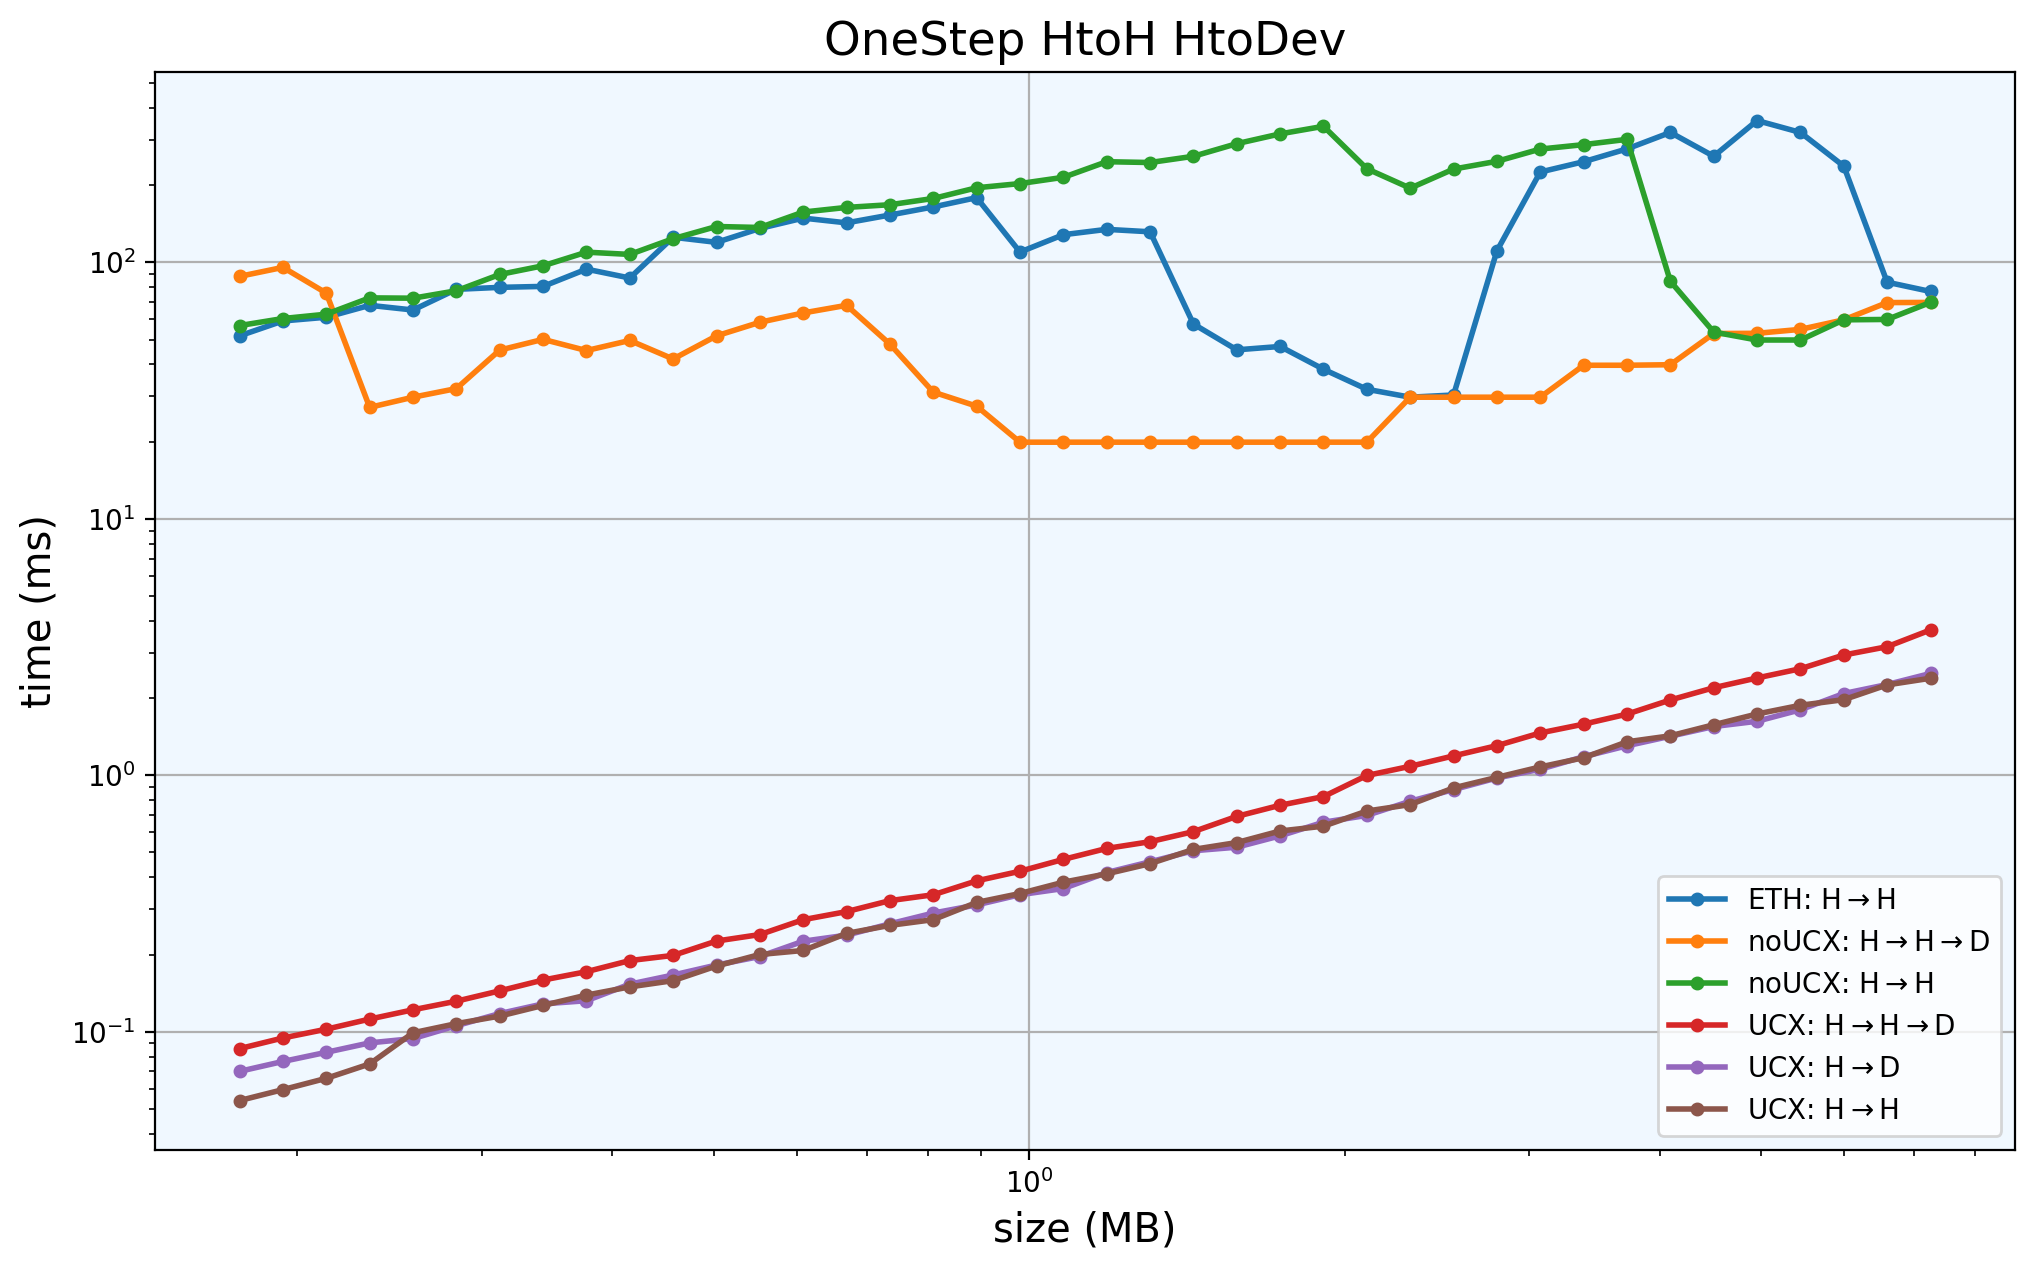
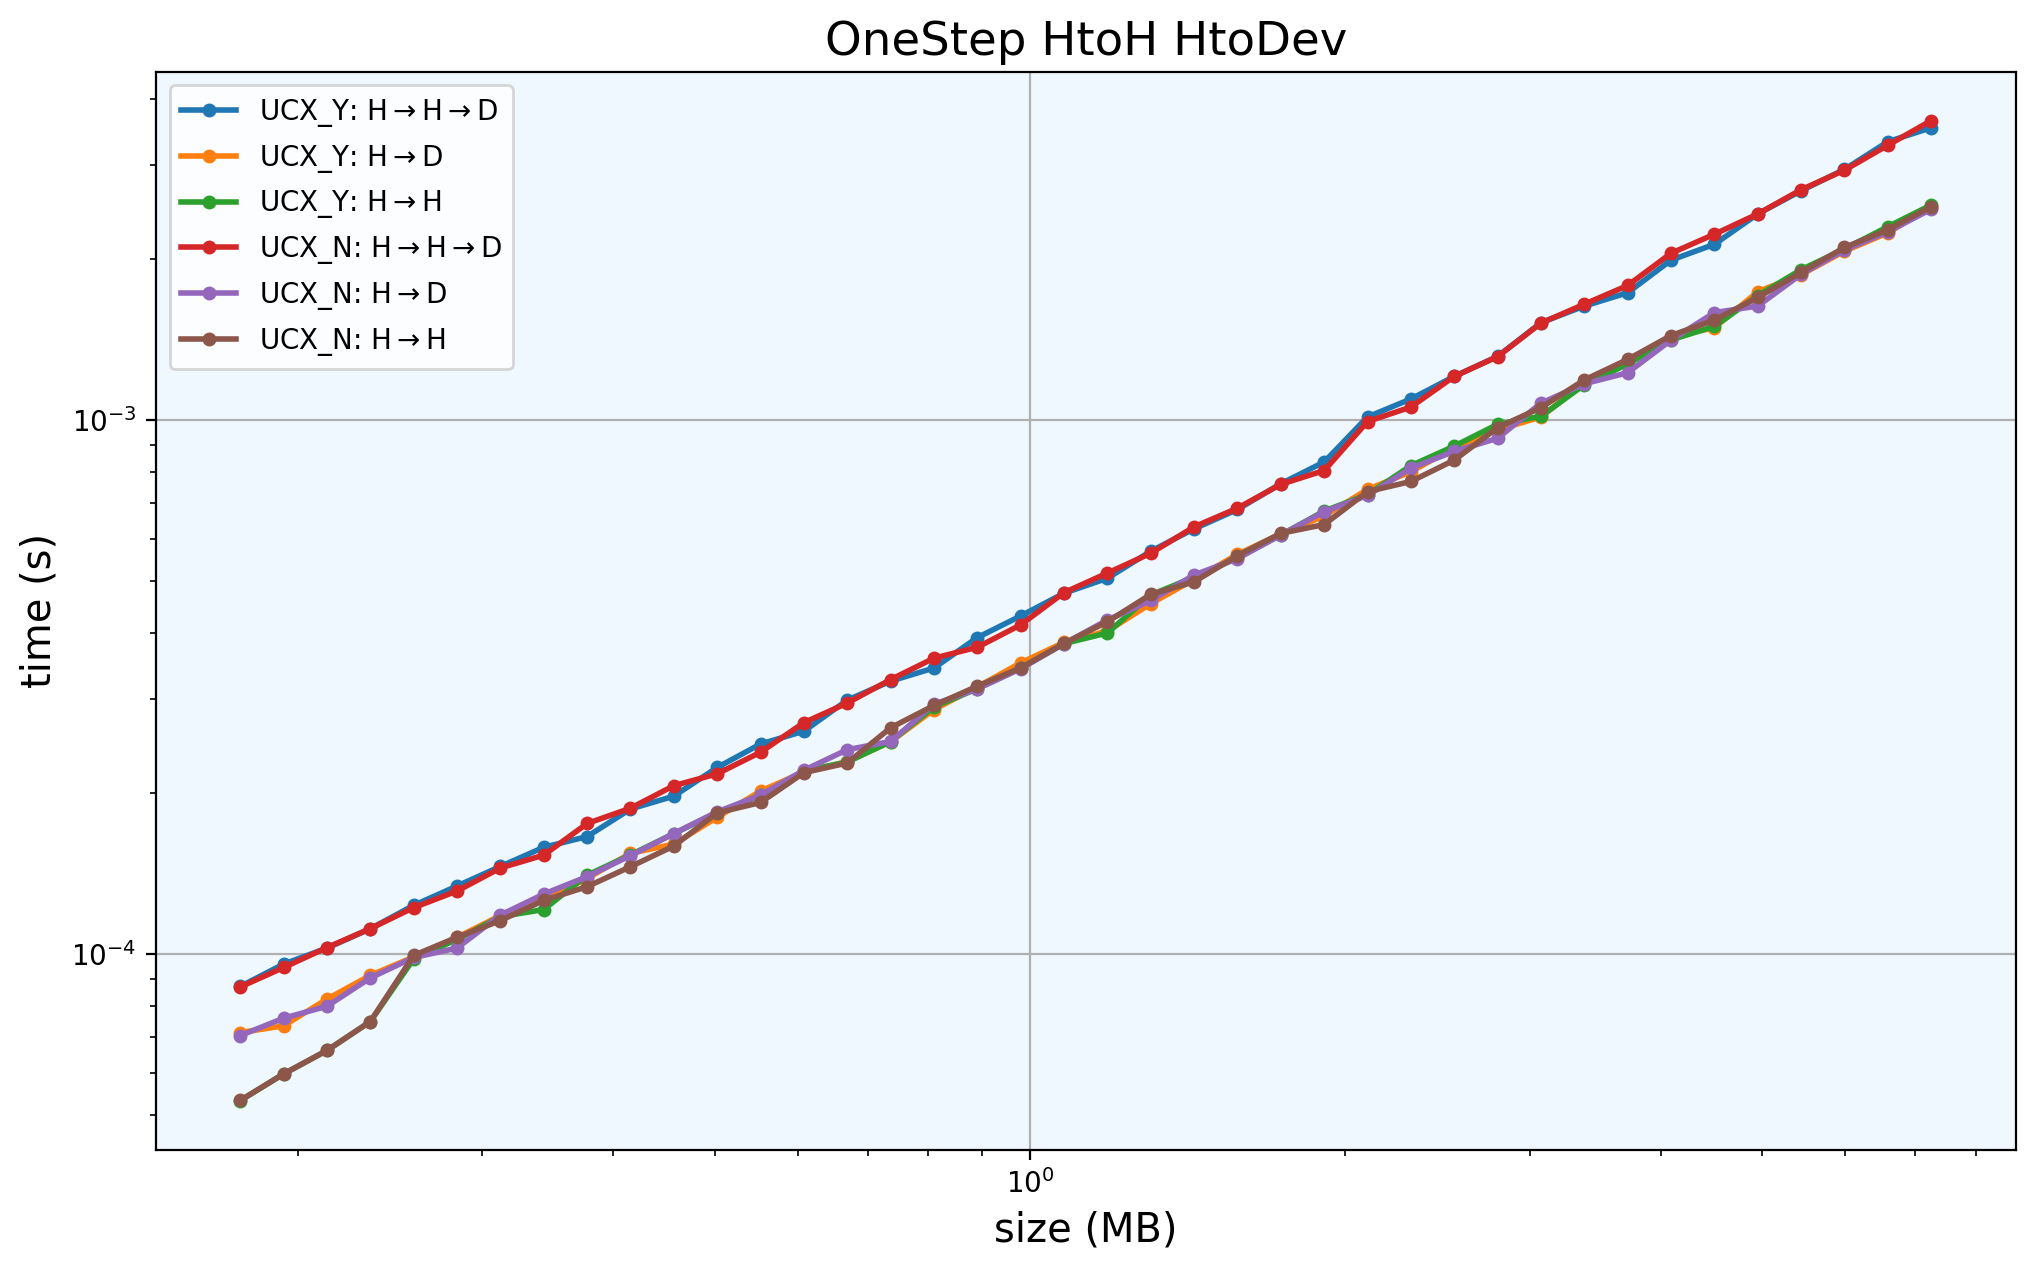
used for another purpose. The previous code has ben commented.

diff --git a/CUDA_tests/CPUtoGPU/benchmarksResults/doPlots.py b/CUDA_tests/CPUtoGPU/benchmarksResults/doPlots.py
@@ -5,30 +5,37 @@ from plotter import Plotter
 
 p = Plotter((12,7))
 
-ETH_110 =   np.array([k[1] for k in np.loadtxt("ETH_110.dat")][1:])
-noUCX_001 = np.array([k[1] for k in np.loadtxt("noUCX_001.dat")][1:])
-noUCX_110 = np.array([k[1] for k in np.loadtxt("noUCX_110.dat")][1:])
-UCX_001 =   np.array([k[1] for k in np.loadtxt("UCX_001.dat")][1:])
-UCX_101 =   np.array([k[1] for k in np.loadtxt("UCX_101.dat")][1:])
-UCX_110 =   np.array([k[1] for k in np.loadtxt("UCX_110.dat")][1:])
-Memcpy =    np.array([k[1] for k in np.loadtxt("Memcpy.dat")][1:])
+#ETH_110 = [k[1] for k in np.loadtxt("ETH_110.dat")][1:]
+#noUCX_001 = [k[1] for k in np.loadtxt("noUCX_001.dat")][1:]
+#noUCX_110 = [k[1] for k in np.loadtxt("noUCX_110.dat")][1:]
+UCX_001_Y =   [k[1] for k in np.loadtxt("UCX_001_Y.dat")][1:]
+UCX_101_Y =   [k[1] for k in np.loadtxt("UCX_101_Y.dat")][1:]
+UCX_110_Y =   [k[1] for k in np.loadtxt("UCX_110_Y.dat")][1:]
+UCX_001_N =   [k[1] for k in np.loadtxt("UCX_001_N.dat")][1:]
+UCX_101_N =   [k[1] for k in np.loadtxt("UCX_101_N.dat")][1:]
+UCX_110_N =   [k[1] for k in np.loadtxt("UCX_110_N.dat")][1:]
+#Memcpy =   [k[1] for k in np.loadtxt("Memcpy.dat")][1:]
 
-pSize = [k[0] for k in np.loadtxt("noUCX_001.dat")][1:]
+pSize = [k[0] for k in np.loadtxt("UCX_001_Y.dat")][1:]
 
 p.createAxis(111)
 
+#p.addSubplot(pSize, ETH_110, dataLabel=r"ETH: H$\rightarrow$H", dataStyle=".-", width=2, size=8)
+#p.addSubplot(pSize, noUCX_001, dataLabel=r"noUCX: H$\rightarrow$H$\rightarrow$D", dataStyle=".-", width=2, size=8)
+#p.addSubplot(pSize, noUCX_110, dataLabel=r"noUCX: H$\rightarrow$H", dataStyle=".-", width=2, size=8)
+p.addSubplot(pSize, UCX_001_Y, dataLabel=r"UCX_Y: H$\rightarrow$H$\rightarrow$D", dataStyle=".-", width=2, size=8)
+p.addSubplot(pSize, UCX_101_Y, dataLabel=r"UCX_Y: H$\rightarrow$D", dataStyle=".-", width=2, size=8)
+p.addSubplot(pSize, UCX_110_Y, dataLabel=r"UCX_Y: H$\rightarrow$H", dataStyle=".-", width=2, size=8)
+p.addSubplot(pSize, UCX_001_N, dataLabel=r"UCX_N: H$\rightarrow$H$\rightarrow$D", dataStyle=".-", width=2, size=8)
+p.addSubplot(pSize, UCX_101_N, dataLabel=r"UCX_N: H$\rightarrow$D", dataStyle=".-", width=2, size=8)
+p.addSubplot(pSize, UCX_110_N, dataLabel=r"UCX_N: H$\rightarrow$H", dataStyle=".-", width=2, size=8)
 
-mult = 1000
+#p.addSubplot(pSize, Memcpy, dataLabel=r"cudaMemcpy", dataStyle=".-", width=2, size=8)
 
-p.addSubplot(pSize, ETH_110*mult, dataLabel=r"ETH: H$\rightarrow$H", dataStyle=".-", width=2, size=8)
-p.addSubplot(pSize, noUCX_001*mult, dataLabel=r"noUCX: H$\rightarrow$H$\rightarrow$D", dataStyle=".-", width=2, size=8)
-p.addSubplot(pSize, noUCX_110*mult, dataLabel=r"noUCX: H$\rightarrow$H", dataStyle=".-", width=2, size=8)
-p.addSubplot(pSize, UCX_001*mult, dataLabel=r"UCX: H$\rightarrow$H$\rightarrow$D", dataStyle=".-", width=2, size=8)
-p.addSubplot(pSize, UCX_101*mult, dataLabel=r"UCX: H$\rightarrow$D", dataStyle=".-", width=2, size=8)
-p.addSubplot(pSize, UCX_110*mult, dataLabel=r"UCX: H$\rightarrow$H", dataStyle=".-", width=2, size=8)
-#p.addSubplot(pSize, Memcpy*mult, dataLabel=r"cudaMemcpy", dataStyle=".-", width=2, size=8)
 
-p.setTitles("OneStep HtoH HtoDev", "size (MB)", "time (ms)")
+
+
+p.setTitles("OneStep HtoH HtoDev", "size (MB)", "time (s)")
 p.setProperties(grid=True, doXlog=1, doYlog=1)
 
 p.saveFig("throughput.png", dpi=200)
